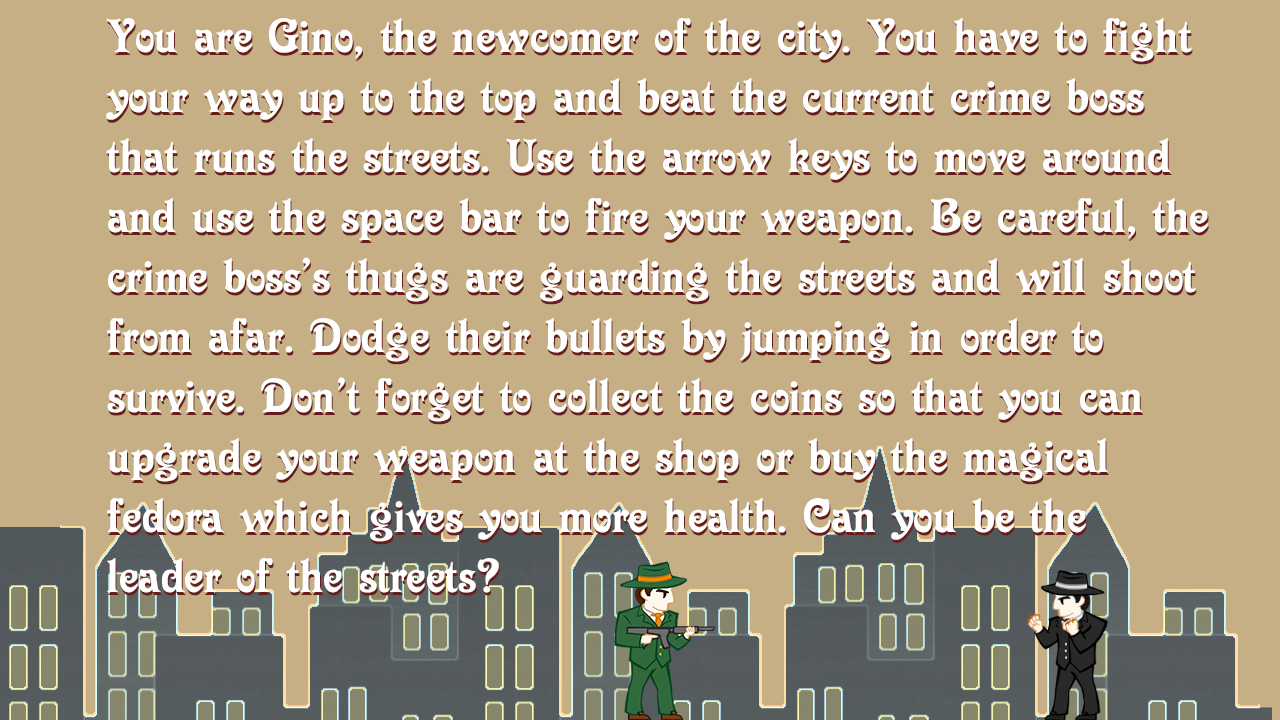
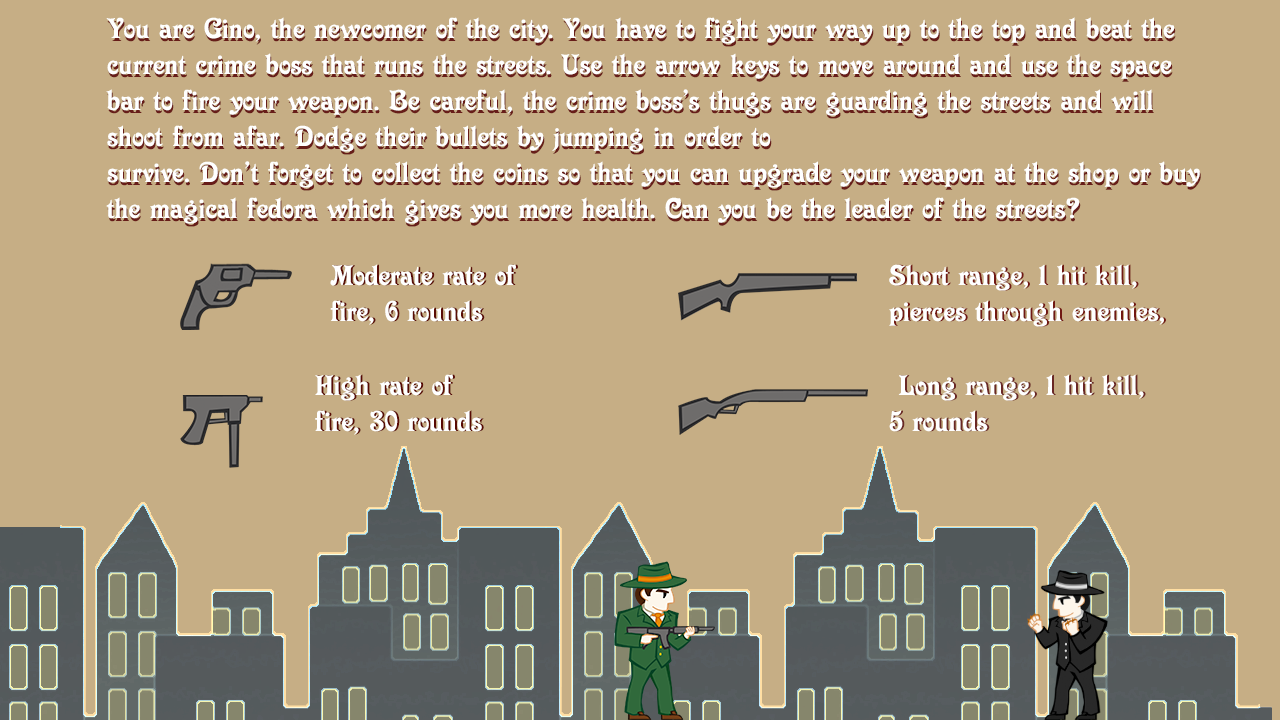
rebase

Changed region(s): [[0.0625, 0.3667, 0.9375, 0.825], [0.0625, 0.0, 0.9688, 0.3361]]

diff --git a/Platformer/Platformer/Model/Weapon.cs b/Platformer/Platformer/Model/Weapon.cs
@@ -17,8 +17,9 @@ namespace Platformer.Model
         public Sprite ProjectileSprite;
         public Vector2 Position;
         public Vector2 Velocity;
-        public int Damage;
-        public int DistanceLeft;
+        public float Damage;
+        public float DamageDrop;  //damage drop per unit moved
+        public bool Piercing;
 
         public void CollideWithObstacle(Direction direction)
         {
@@ -29,8 +30,8 @@ namespace Platformer.Model
             if (unit.State == Unit.UnitState.Dead)
                 return;
 
-            Active = false;
-            unit.Damage(Damage, (Velocity.X > 0) ? Direction.West : Direction.East);
+            Active = Piercing;  //only deactivate if not piercing
+            unit.Damage((int)Damage, (Velocity.X > 0) ? Direction.West : Direction.East);
         }
     }
 
@@ -43,6 +44,7 @@ namespace Platformer.Model
         public int Ammo;
         public int Damage;
         public int Range;
+        public bool Piercing;
     }
 
     class Weapon
@@ -69,7 +71,7 @@ namespace Platformer.Model
             {
                 if (Projectiles[i].Active)
                 {
-                    Projectiles[i].Active = Projectiles[i].DistanceLeft > 0;
+                    Projectiles[i].Active = Projectiles[i].Damage > 0;
                     Projectiles[i].ProjectileSprite.Animate(0, gameTime, 1.0f, true);
                 }
             }
@@ -93,6 +95,7 @@ namespace Platformer.Model
         Vector2 _fireLocation, _fireDirection;
         string _projectileSpriteKey;
         int _range;
+        bool _piercing;
         #endregion
 
         #region constructor
@@ -111,6 +114,7 @@ namespace Platformer.Model
             _ammo = data.Ammo;
             _damage = data.Damage;
             _range = data.Range;
+            _piercing = data.Piercing;
             Name = data.Key;
         }
         #endregion
@@ -141,7 +145,8 @@ namespace Platformer.Model
                     Projectiles[i].ProjectileSprite = new Sprite(_projectileSpriteKey, fireDirection.X > 0);
                     Vector2.Multiply(ref fireDirection, _projectileSpeed, out Projectiles[i].Velocity);
                     Projectiles[i].Position = fireLocation;
-                    Projectiles[i].DistanceLeft = _range;
+                    Projectiles[i].DamageDrop = Projectiles[i].Damage / (float)_range;
+                    Projectiles[i].Piercing = _piercing;
                     break;
                 }
             }

diff --git a/Platformer/Platformer/Control/Level.cs b/Platformer/Platformer/Control/Level.cs
@@ -68,7 +68,7 @@ namespace Platformer.Control
             _tileMap.LoadTileSheets(MapDisplayDevice);
 
             scanMapLayers();
-            //_instructionScreen = Content.Load
+
             _progressData = progressData;
             _progressData.CurrentLevel = levelNumber;
 
@@ -174,7 +174,7 @@ namespace Platformer.Control
             {
                 SoundPlayer.Update("chinaboy");
             }
-            else if (_progressData.CurrentLevel ==5)
+            else if (_progressData.CurrentLevel == 5)
             {
                 SoundPlayer.Update("younger");
             }
@@ -225,12 +225,14 @@ namespace Platformer.Control
         private void getPickup(string name, int row, int col)
         {
             _pickups.RemoveAll(t => t.Row == row && t.Col == col);
-            switch (name)
+            if (name == "Coin")
             {
-                case "Coin":
-                    _progressData.NumCoins += 1;
-                    SoundPlayer.playSoundEffects("hihatloop");
-                    break;
+                _progressData.NumCoins += 1;
+                SoundPlayer.playSoundEffects("hihatloop");
+            }
+            else
+            {   //must be a weapon
+                _gino.SetWeapon(new Weapon(name, _gino));
             }
         }
 
@@ -249,7 +251,7 @@ namespace Platformer.Control
                     if (pxDown != 0)
                         checkVerticalCollision(p, pxDown);
 
-                    p.DistanceLeft -= pxRight;
+                    p.Damage -= pxRight * p.DamageDrop;
 
                     point.X = (int)p.Position.X;
                     point.Y = (int)p.Position.Y;
@@ -587,7 +589,6 @@ namespace Platformer.Control
             SoundPlayer.StopSound();
             //trigger the end-level sound
             SoundPlayer.playSoundEffects("endgamesound");
-            SoundPlayer.StartSound("rosesdepicardie");
             NewState = new Overworld(_progressData);
         }
 

diff --git a/Platformer/Platformer/Control/MainMenu.cs b/Platformer/Platformer/Control/MainMenu.cs
@@ -145,8 +145,7 @@ namespace Platformer.Control
                     GameState _current_state = this;
 
 
-                    if (buttonSt[0] == buttonState.down)
-                    {//******************************start game
+                    if (buttonSt[0] == buttonState.down) //******************************start game
                         NewState = new Overworld(
                             new ProgressData()
                             {
@@ -156,10 +155,11 @@ namespace Platformer.Control
                             }
                         );
 
-                    }
-                    else if (buttonSt[1] == buttonState.down)
-                        NewState = new InstructionScreen(graphics);
 
+                    if (buttonSt[1] == buttonState.down) //instructions
+                    {
+                        NewState = new InstructionScreen(graphics);
+                    }
                     if (buttonSt[2] == buttonState.down) //quit
                         _current_state.RequestExit = true;
                 }

diff --git a/Platformer/Platformer/Game1.cs b/Platformer/Platformer/Game1.cs
@@ -92,7 +92,7 @@ namespace Platformer
             Overworld.Nodes = DataLoader.LoadOverworldData();
             OverworldView.LoadTextures(Content.Load<Texture2D>("Icons/Node"), Content.Load<Texture2D>("Backgrounds/skyline"));
             SpriteView.LoadTextures(Sprite.SpriteDataDict.Keys.ToArray<string>(), Content);
-            InstructionScreen.LoadTextures(Content.Load<Texture2D>("Backgrounds/Intructions"));
+            InstructionScreen.LoadTextures(Content.Load<Texture2D>("Backgrounds/intructions"));
             //Later: change this in main menu
             //initialize new data if select new game
             //load data if select continue game
@@ -136,7 +136,6 @@ namespace Platformer
                 _currentState = _currentState.NewState;
 
             _currentState.Update(gameTime, _input);
-            //SoundPlayer.Update();
 
             base.Update(gameTime);
         }

diff --git a/Platformer/Platformer/Model/Sprite.cs b/Platformer/Platformer/Model/Sprite.cs
@@ -18,6 +18,7 @@ namespace Platformer.Model
             public int SpriteWidth, SpriteHeight;
             public int NumFrames, NumStates;
             public float SecondsPerFrame;
+            public float Scale;
         }
         #endregion
         #region static
@@ -78,7 +79,7 @@ namespace Platformer.Model
             _shade = Color.White;
             _currentFrame = 0;
             _currentState = 0;
-            _scale = 1.0f;
+            _scale = data.Scale;
             _numStates = data.NumStates;
             _framesPerAnimation = data.NumFrames;
 

diff --git a/Platformer/Platformer/Model/Unit.cs b/Platformer/Platformer/Model/Unit.cs
@@ -193,6 +193,9 @@ namespace Platformer.Model
 
         public void Jump()
         {
+            if (_state == UnitState.Dead)
+                return;
+
             if (_state != UnitState.FreeFall)
             {
                 _velocity.Y = -_jumpSpeed;
@@ -224,6 +227,9 @@ namespace Platformer.Model
 
         public virtual void CollideWithObstacle(Direction direction)
         {
+            if (_state == UnitState.Dead)
+                return;
+
             switch (direction)
             {
                 case Direction.South:

diff --git a/Platformer/Platformer/data/DataLoader.cs b/Platformer/Platformer/data/DataLoader.cs
@@ -40,7 +40,8 @@ namespace Platformer.Data
                         SpriteHeight = (int)sd.Attribute("SpriteHeight"),
                         NumFrames = (int)sd.Attribute("NumFrames"),
                         NumStates = (int)sd.Attribute("NumStates"),
-                        SecondsPerFrame = (float)sd.Attribute("SecondsPerFrame")
+                        SecondsPerFrame = (float)sd.Attribute("SecondsPerFrame"),
+                        Scale = (float)sd.Attribute("Scale")
                     }).ToDictionary(t => t.Key);
         }
 

diff --git a/Platformer/Platformer/Control/Overworld.cs b/Platformer/Platformer/Control/Overworld.cs
@@ -39,7 +39,7 @@ namespace Platformer.Control
         #region constructor
         public Overworld(ProgressData progressData)
         {
-            //SoundPlayer.StartSound("shuffledrum");
+           // SoundPlayer.StartSound("shuffledrum");
             _progressData = progressData;
         }
         #endregion

diff --git a/Platformer/Platformer/Model/Pickup.cs b/Platformer/Platformer/Model/Pickup.cs
@@ -16,10 +16,6 @@ namespace Platformer.Model
         #endregion
 
         #region static
-        public enum PickupType
-        {
-            Coin
-        }
         #endregion
 
         #region properties
